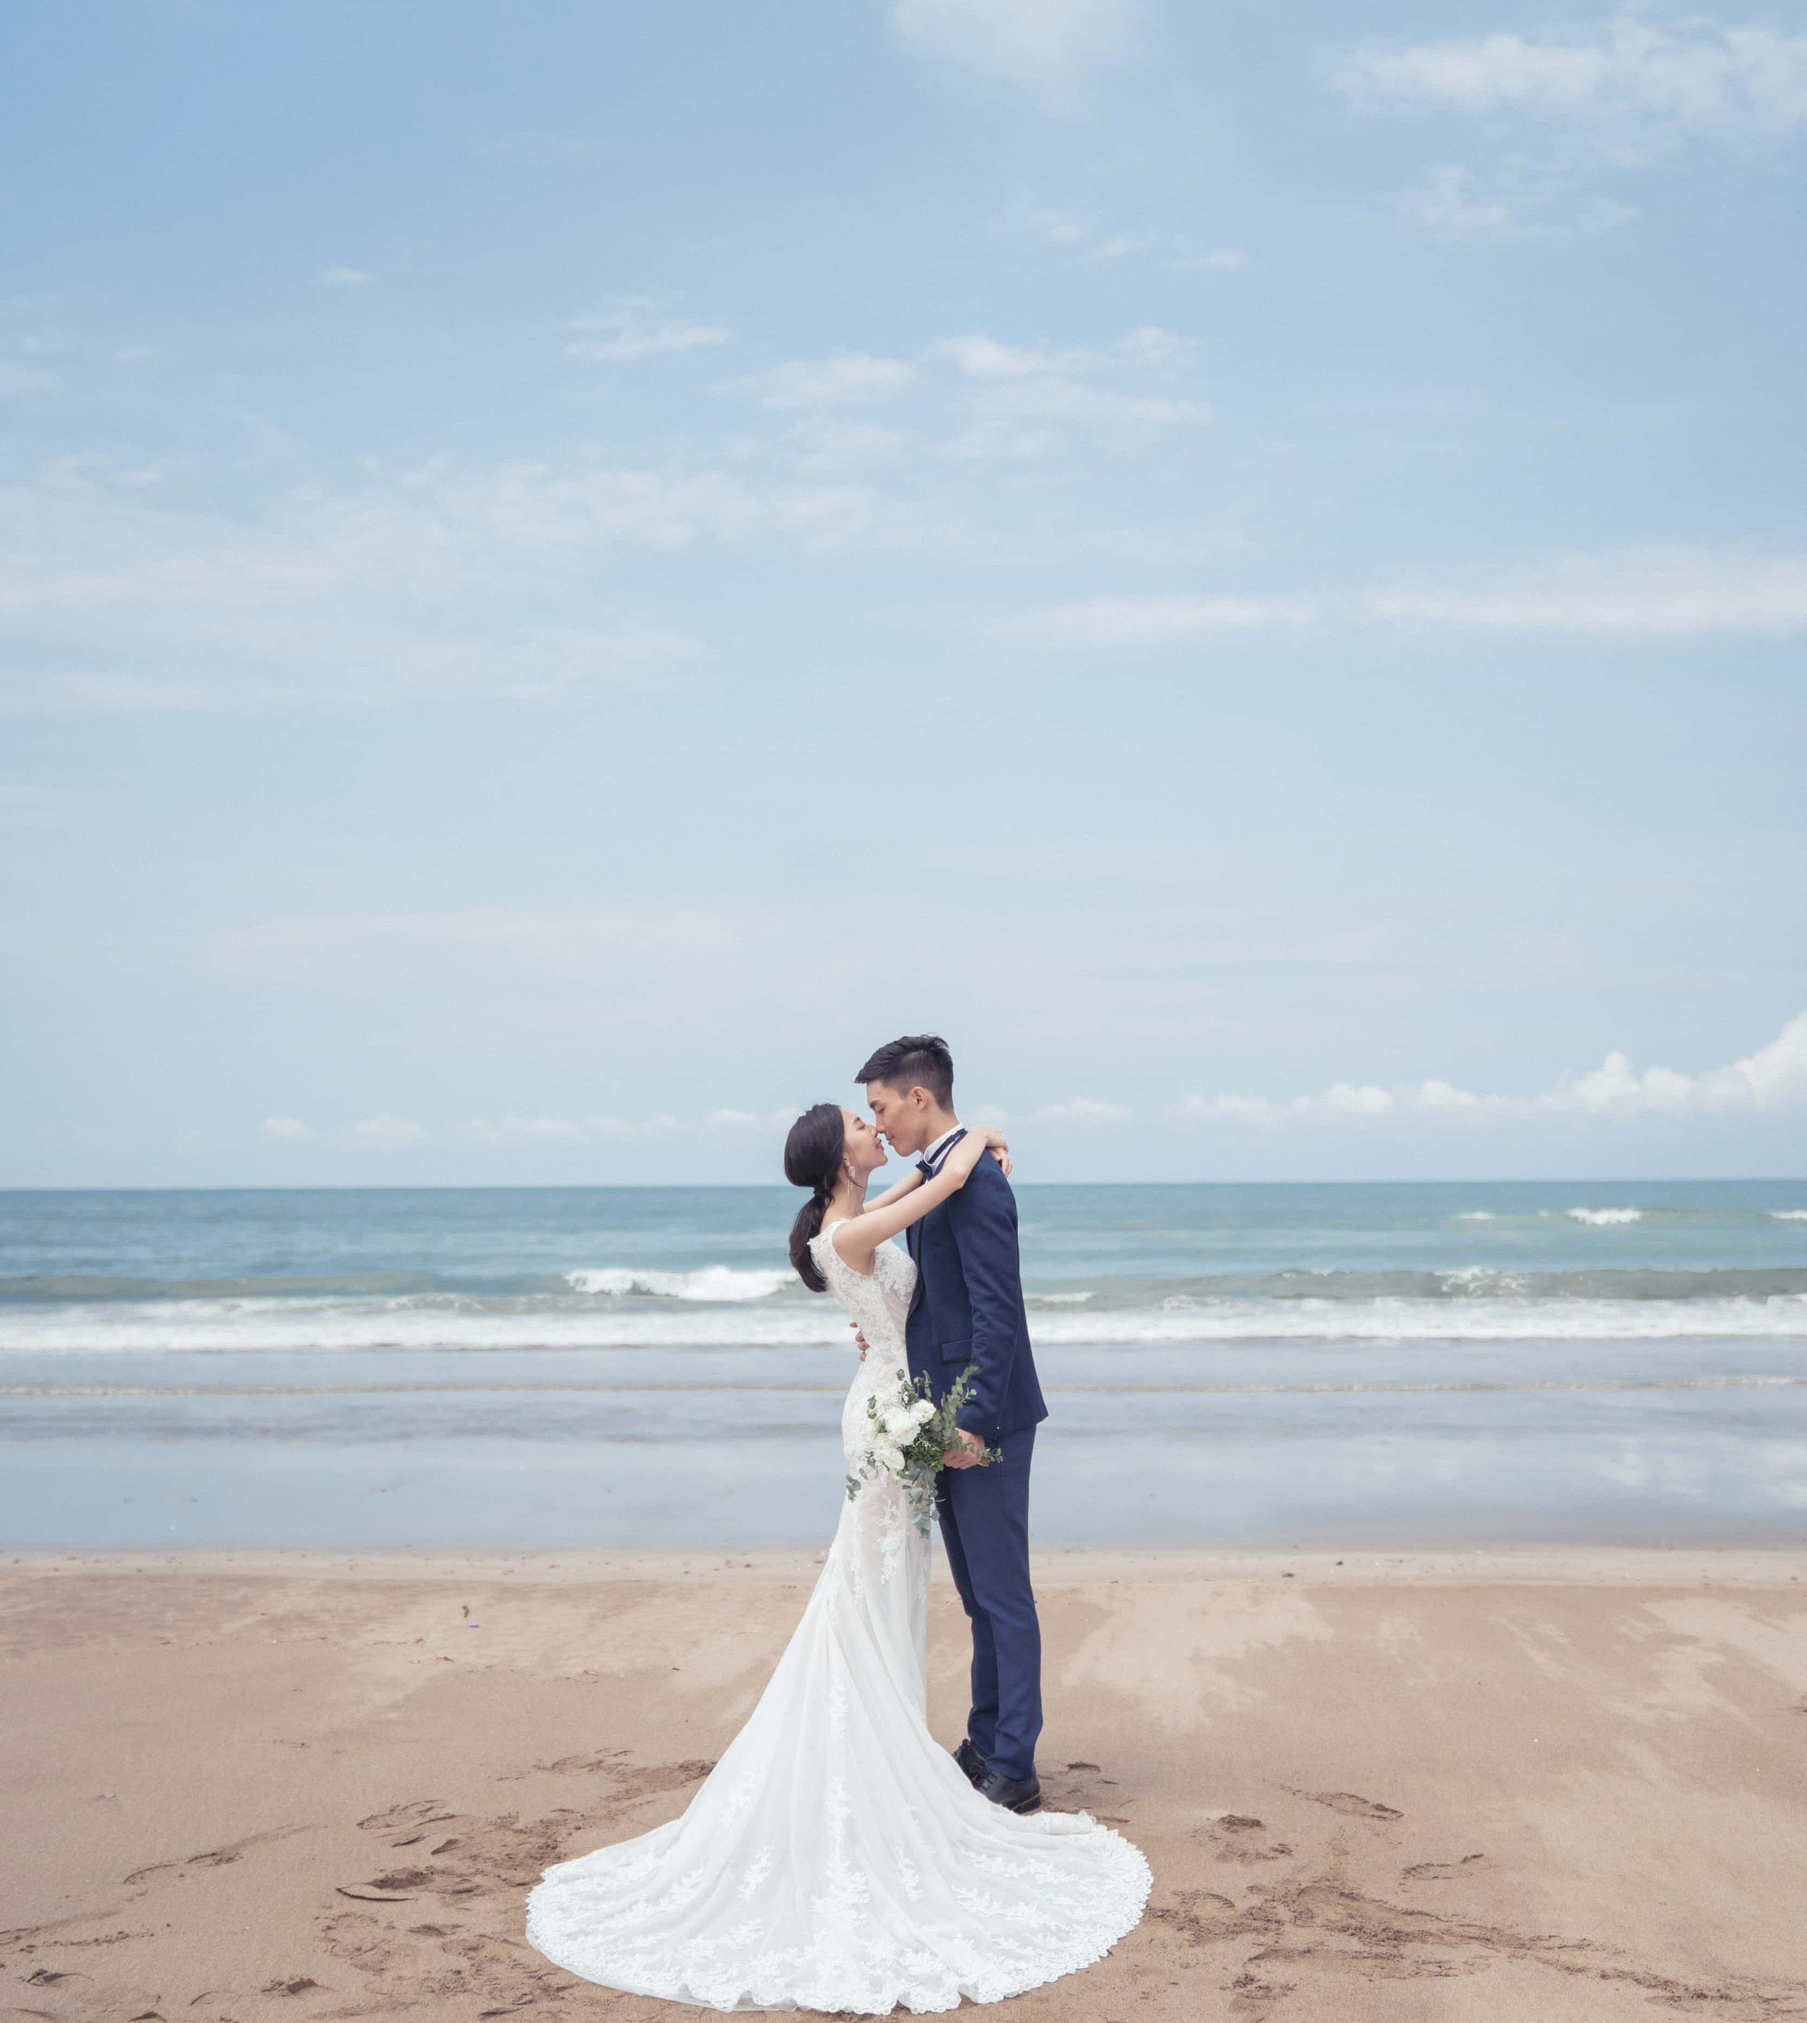
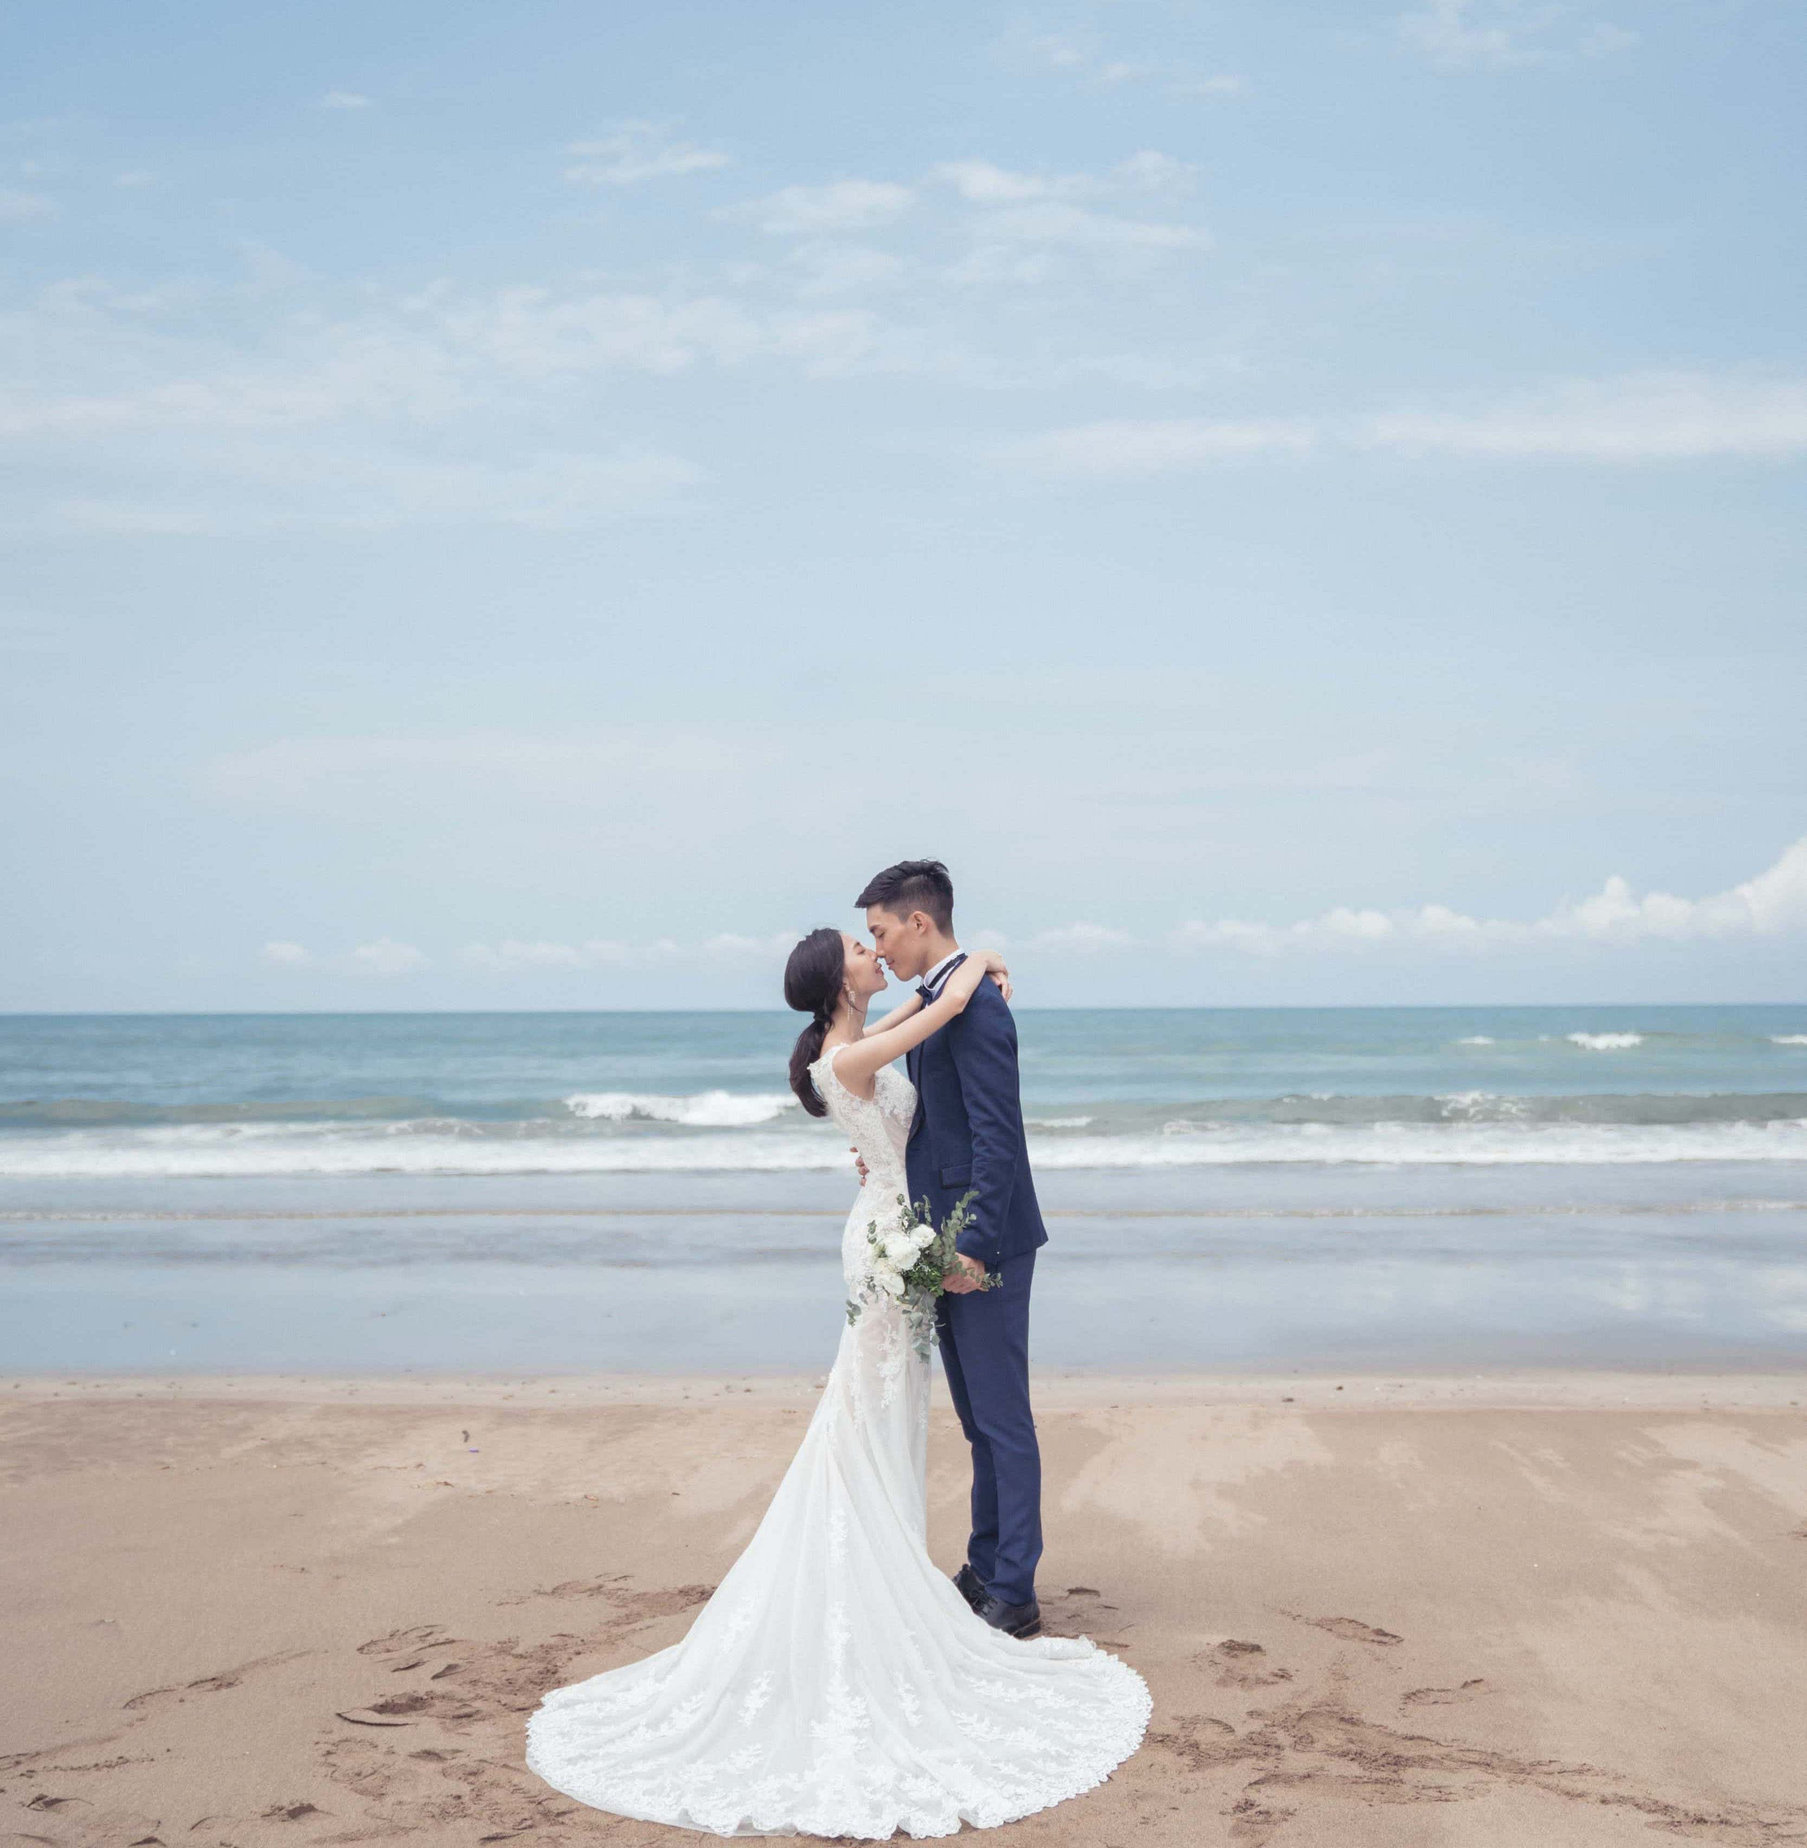
add animation

diff --git a/src/App.vue b/src/App.vue
@@ -62,8 +62,8 @@
     <div class="block block-event">
       <!-- <div class="title">Wedding Events</div> -->
 
-      <div class="location">
-        <div class="caption">THE VENUE</div>
+      <div class="location" ref="blockEventLocation">
+        <!-- <div class="caption">THE VENUE</div> -->
         <div class="venue">
           <a
             href="http://yangmingshan.landishotelsresorts.com/chinese-trad/"
@@ -83,8 +83,16 @@
           </a>
         </div>
       </div>
+      <div class="event" ref="blockEvent1">
+        <div class="text event-time">11:00<span class="small">AM</span></div>
+        <div class="text event-name">#weddingceremony</div>
+      </div>
+      <div class="event" ref="blockEvent2">
+        <div class="text event-time">12:30<span class="small">PM</span></div>
+        <div class="text event-name">#lunch</div>
+      </div>
 
-      <div class="row">
+      <!-- <div class="row">
         <div class="col img event-1">
           <div class="text event-time">11:00<span class="small">AM</span></div>
           <div class="text event-name">#weddingceremony</div>
@@ -93,9 +101,9 @@
           <div class="text event-time">12:30<span class="small">PM</span></div>
           <div class="text event-name">#lunch</div>
         </div>
-      </div>
+      </div> -->
 
-      <div :style="{ textAlign: 'center' }">
+      <!-- <div :style="{ textAlign: 'center' }">
         <div style="font-size: 6vmin" class="mb-1vh">2020/12/19</div>
         <a
           class="rsvp"
@@ -106,9 +114,9 @@
         >
           RSVP
         </a>
-      </div>
+      </div> -->
     </div>
-    <div class="block block-gallery">
+    <div class="block block-gallery" ref="blockGallery">
       <stack
         :column-min-width="150"
         :gutter-width="10"
@@ -131,9 +139,9 @@
 <script>
 import Vara from "vara";
 import { Stack, StackItem } from "vue-stack-grid";
-// const gallery = require.context("@/assets/img/gallery");
-// const images = gallery.keys().map(key => gallery(key));
-const images = [];
+const gallery = require.context("@/assets/img/gallery");
+const images = gallery.keys().map(key => gallery(key));
+// const images = [];
 
 export default {
   name: "App",
@@ -256,24 +264,71 @@ export default {
       .from(blockProfileRubyRow, {});
 
     this.$gsap.to(blockProfileTransitionImg, {
-      scale: 1.5,
+      scale: 1.3,
       scrollTrigger: {
-        markers: true,
+        // markers: true,
         start: "top bottom",
         end: "bottom top",
-        trigger: blockProfileTransitionImg,
-        scrub: 2
+        trigger: blockProfileTransitionImg
+        // scrub: 1
       }
     });
     this.$gsap.to(blockProfileTransitionImgMask, {
       backgroundColor: "rgba(255, 255, 255, 0.5)",
       scrollTrigger: {
-        markers: true,
+        // markers: true,
         start: "top top",
         end: "bottom top",
         trigger: blockProfileTransitionImg,
-        scrub: 2,
+        scrub: 1,
         pin: true
+      }
+    });
+
+    let { blockEventLocation, blockEvent1, blockEvent2 } = this.$refs;
+    this.$gsap.from(blockEventLocation, {
+      opacity: 0,
+      scrollTrigger: {
+        // markers: true,
+        start: "top 95%",
+        end: "+=30%",
+        trigger: blockEventLocation,
+        scrub: 1
+      }
+    });
+    this.$gsap.from(blockEvent1, {
+      opacity: 0,
+      scrollTrigger: {
+        // markers: true,
+        start: "top 95%",
+        end: "+=30%",
+        trigger: blockEvent1,
+        scrub: 1
+      }
+    });
+    this.$gsap.from(blockEvent2, {
+      opacity: 0,
+      scrollTrigger: {
+        // markers: true,
+        start: "top 95%",
+        end: "+=30%",
+        trigger: blockEvent2,
+        scrub: 1
+      }
+    });
+
+    let { blockGallery } = this.$refs;
+
+    this.$gsap.from(blockGallery, {
+      opacity: 0,
+      duration: 4,
+      scrollTrigger: {
+        // markers: true,
+        start: "top bottom",
+        end: "bottom bottom",
+        trigger: blockGallery,
+        // scrub: 1,
+        toggleActions: "play none none none"
       }
     });
   }
@@ -411,7 +466,7 @@ $backgroundColor1: rgb(184, 202, 217);
     width: 100vw;
     position: relative;
     left: -10vw;
-    background-position: bottom;
+    background-position: center;
     .mask {
       width: 100%;
       height: 100%;
@@ -420,72 +475,85 @@ $backgroundColor1: rgb(184, 202, 217);
   }
 }
 .block-event {
-  background-color: rgba(245, 226, 228, 0.5);
+  padding: 0;
+  position: relative;
+  margin-top: -100vh;
+  height: 100vh;
+  // background-color: rgba(245, 226, 228, 0.5);
   // background-color: #f6efef;
   display: flex;
   align-items: center;
   flex-direction: column;
+  text-align: center;
   & > div:not(:last-child) {
     margin-bottom: 10vh;
   }
 
-  .mb-1vh {
-    margin-bottom: 1vh;
+  // .mb-1vh {
+  //   margin-bottom: 1vh;
+  // }
+  // .title {
+  //   text-align: center;
+  //   font-size: 10vmin;
+  //   font-weight: 500;
+  // }
+  .text {
+    font-weight: 600;
+    // margin-bottom: 5px;
   }
-  .title {
-    text-align: center;
-    font-size: 10vmin;
-    font-weight: 500;
-  }
-  .row {
-    width: 100%;
+  // .row {
+  //   width: 100%;
+  //   display: flex;
+  //   flex-wrap: wrap;
+  //   justify-content: space-evenly;
+  //   .col {
+  //     box-shadow: 0px 5px 35px rgba(53, 53, 53, 0.06);
+  //     padding: 10%;
+  //     display: inline-flex;
+  //     align-items: center;
+  //     justify-content: center;
+  //     flex-direction: column;
+  //     margin-bottom: 10vh;
+  //     width: 10vw;
+  //     min-width: 14rem;
+  //     height: 30vh;
+  //     min-height: 15rem;
+  //     & > .text {
+  //       font-weight: 600;
+  //       margin-bottom: 5px;
+  //     }
+  //   }
+
+  //   .img {
+  //     background-size: cover;
+  //     background-repeat: no-repeat;
+  //     background-position: center;
+  //     &.event-1 {
+  //       background-image: url(assets/img/shardayyy-photography-fJzmPe-a0eU-unsplash.jpg);
+  //     }
+  //     &.event-2 {
+  //       background-image: url(assets/img/annie-spratt-TQSB-suJu1k-unsplash.jpg);
+  //     }
+  //   }
+  // }
+  .event {
     display: flex;
-    flex-wrap: wrap;
-    justify-content: space-evenly;
-    .col {
-      box-shadow: 0px 5px 35px rgba(53, 53, 53, 0.06);
-      padding: 10%;
-      display: inline-flex;
-      align-items: center;
-      justify-content: center;
-      flex-direction: column;
-      margin-bottom: 10vh;
-      width: 10vw;
-      min-width: 14rem;
-      height: 30vh;
-      min-height: 15rem;
-      & > .text {
-        font-weight: 600;
-        margin-bottom: 5px;
-      }
-    }
-
-    .img {
-      background-size: cover;
-      background-repeat: no-repeat;
-      background-position: center;
-      &.event-1 {
-        background-image: url(assets/img/shardayyy-photography-fJzmPe-a0eU-unsplash.jpg);
-      }
-      &.event-2 {
-        background-image: url(assets/img/annie-spratt-TQSB-suJu1k-unsplash.jpg);
-      }
-    }
-
-    .event-name {
-      padding: 0 10px;
-      border-radius: 5px;
-      font-size: 4vmin;
-      text-decoration: underline;
-      color: #000;
-      background-color: #fff;
-    }
-    .text.event-time {
-      font-size: 8vmin;
-      color: #fff;
-      .small {
-        font-size: 5vmin;
-      }
+    flex-direction: column;
+    align-items: center;
+  }
+  .event-name {
+    padding: 0 10px;
+    border-radius: 5px;
+    font-size: 4vmin;
+    text-decoration: underline;
+    color: #000;
+    background-color: #fff;
+  }
+  .event-time {
+    font-size: 8vmin;
+    color: #fff;
+    .small {
+      font-size: 5vmin;
     }
   }
   .location {
